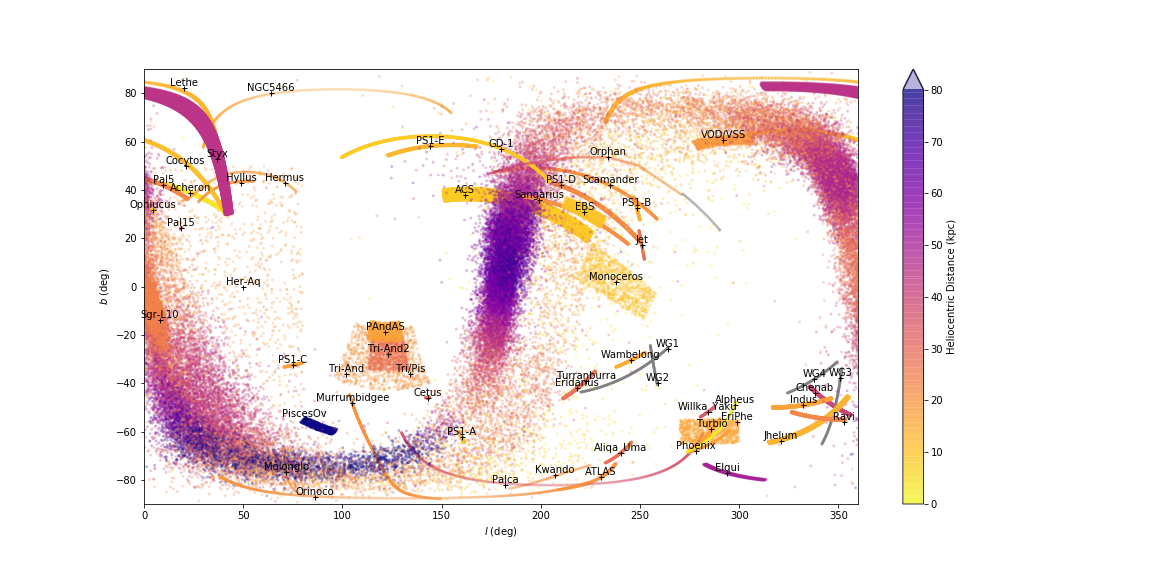
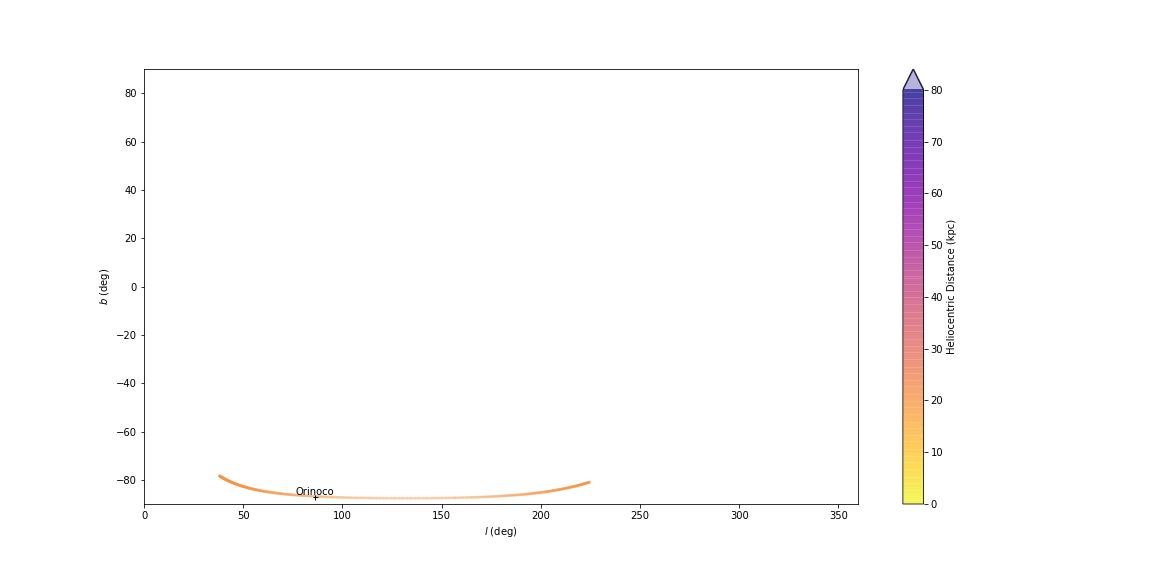
keyword added to plot only selected streams

Changed region(s): [[0.0938, 0.125, 0.75, 0.875], [0.3125, 0.1562, 0.375, 0.1875], [0.625, 0.8125, 0.6562, 0.8438]]

diff --git a/galstreams/__init__.py b/galstreams/__init__.py
@@ -363,7 +363,7 @@ class MWStreams(dict):
   def plot_stream_compilation(self,ax,Rstat='mean',Rrange=[0.,9e9],plot_stream_type='all',plot_names=True,
                               use_shortnames=False,plot_colorbar=False,
                               scat_kwargs=None,text_kwargs=None,sym_kwargs=None,cb_kwargs=None,cootype='gal',verbose=False,
-                              exclude_streams=[]): 
+                              exclude_streams=[],include_only=[]): 
 
    #Validate options for cootype
    coo_types = ['gal', 'equ', 'GC']
@@ -411,7 +411,10 @@ class MWStreams(dict):
    if Rrange[1]<9e9: scatter_kwargs['vmax']=Rrange[1]
 
    #------------------------------PLOT---------------------------------------------------------------------- 
-   for i in self.keys(): 
+   keys_to_plot=self.keys()
+   if include_only: keys_to_plot=include_only
+
+   for i in keys_to_plot:
 
     #Skip it stream name in list of excluded streams    
     if i in exclude_streams:
